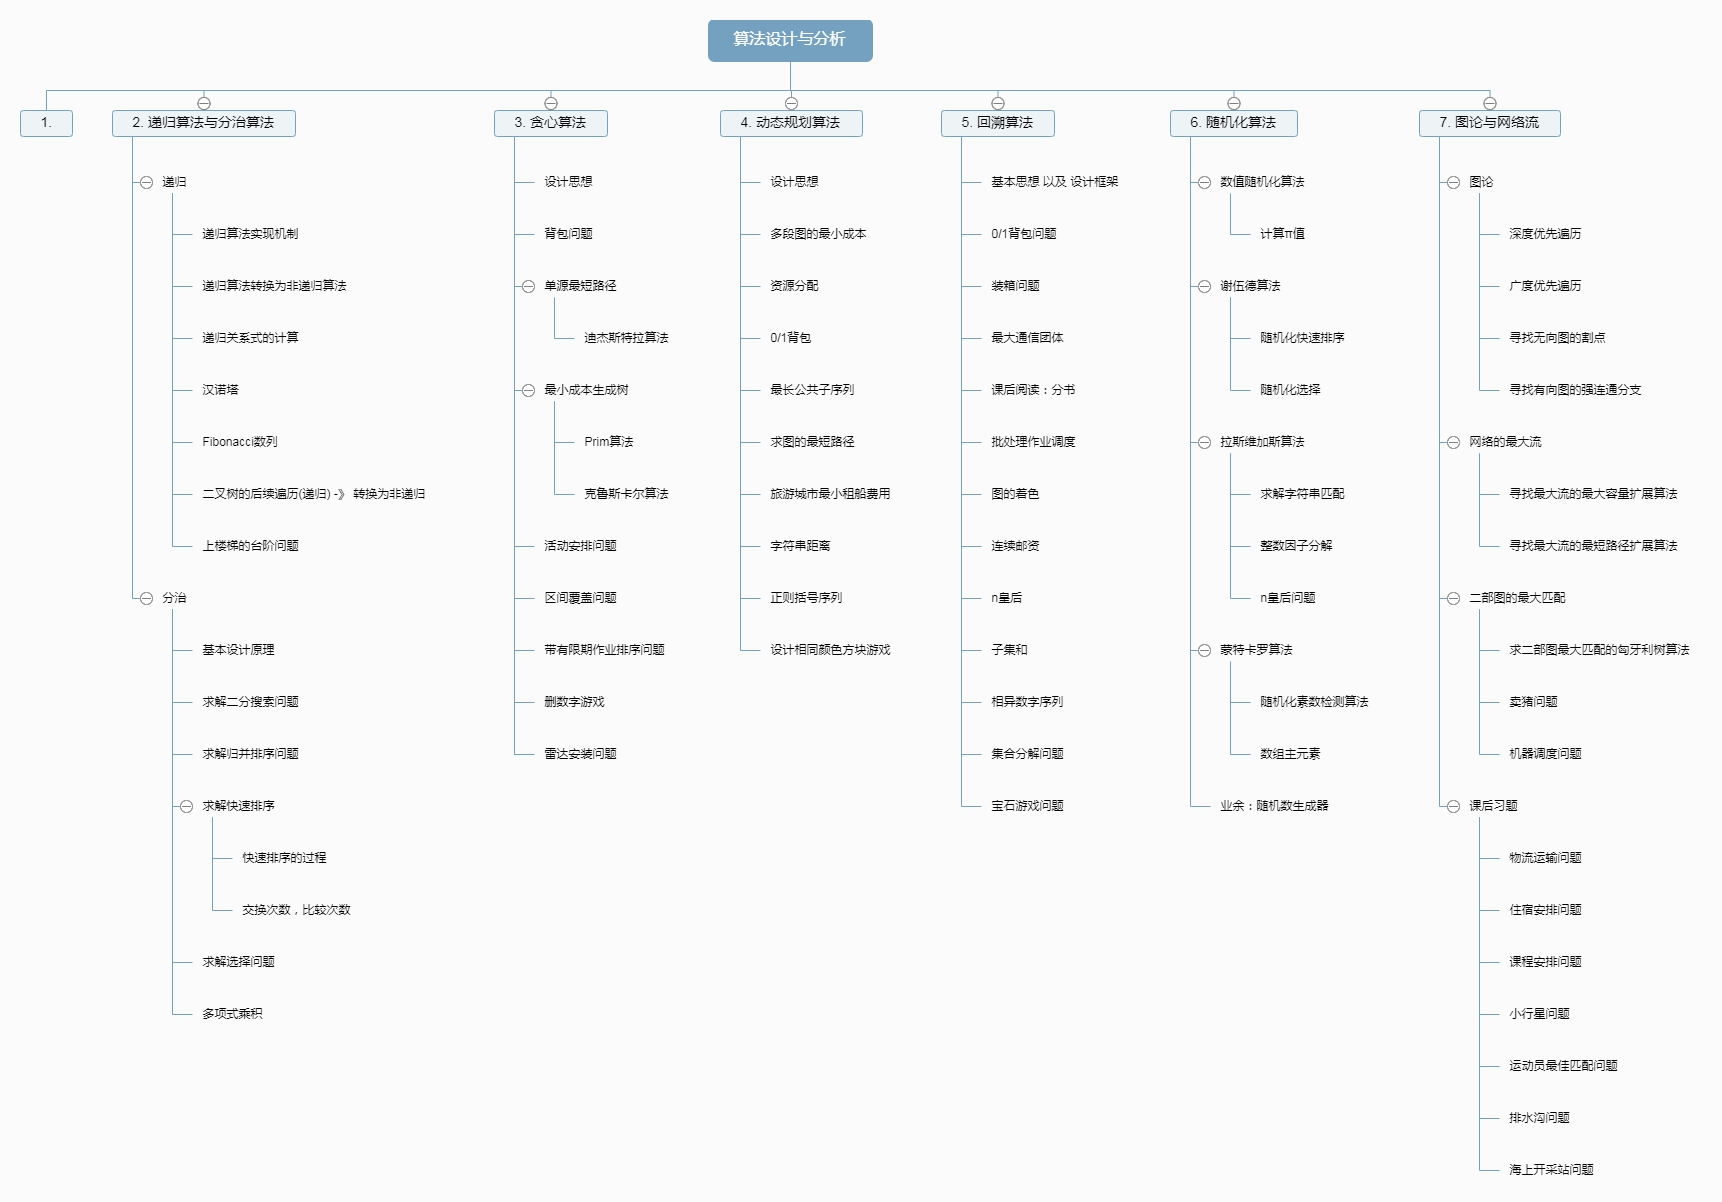
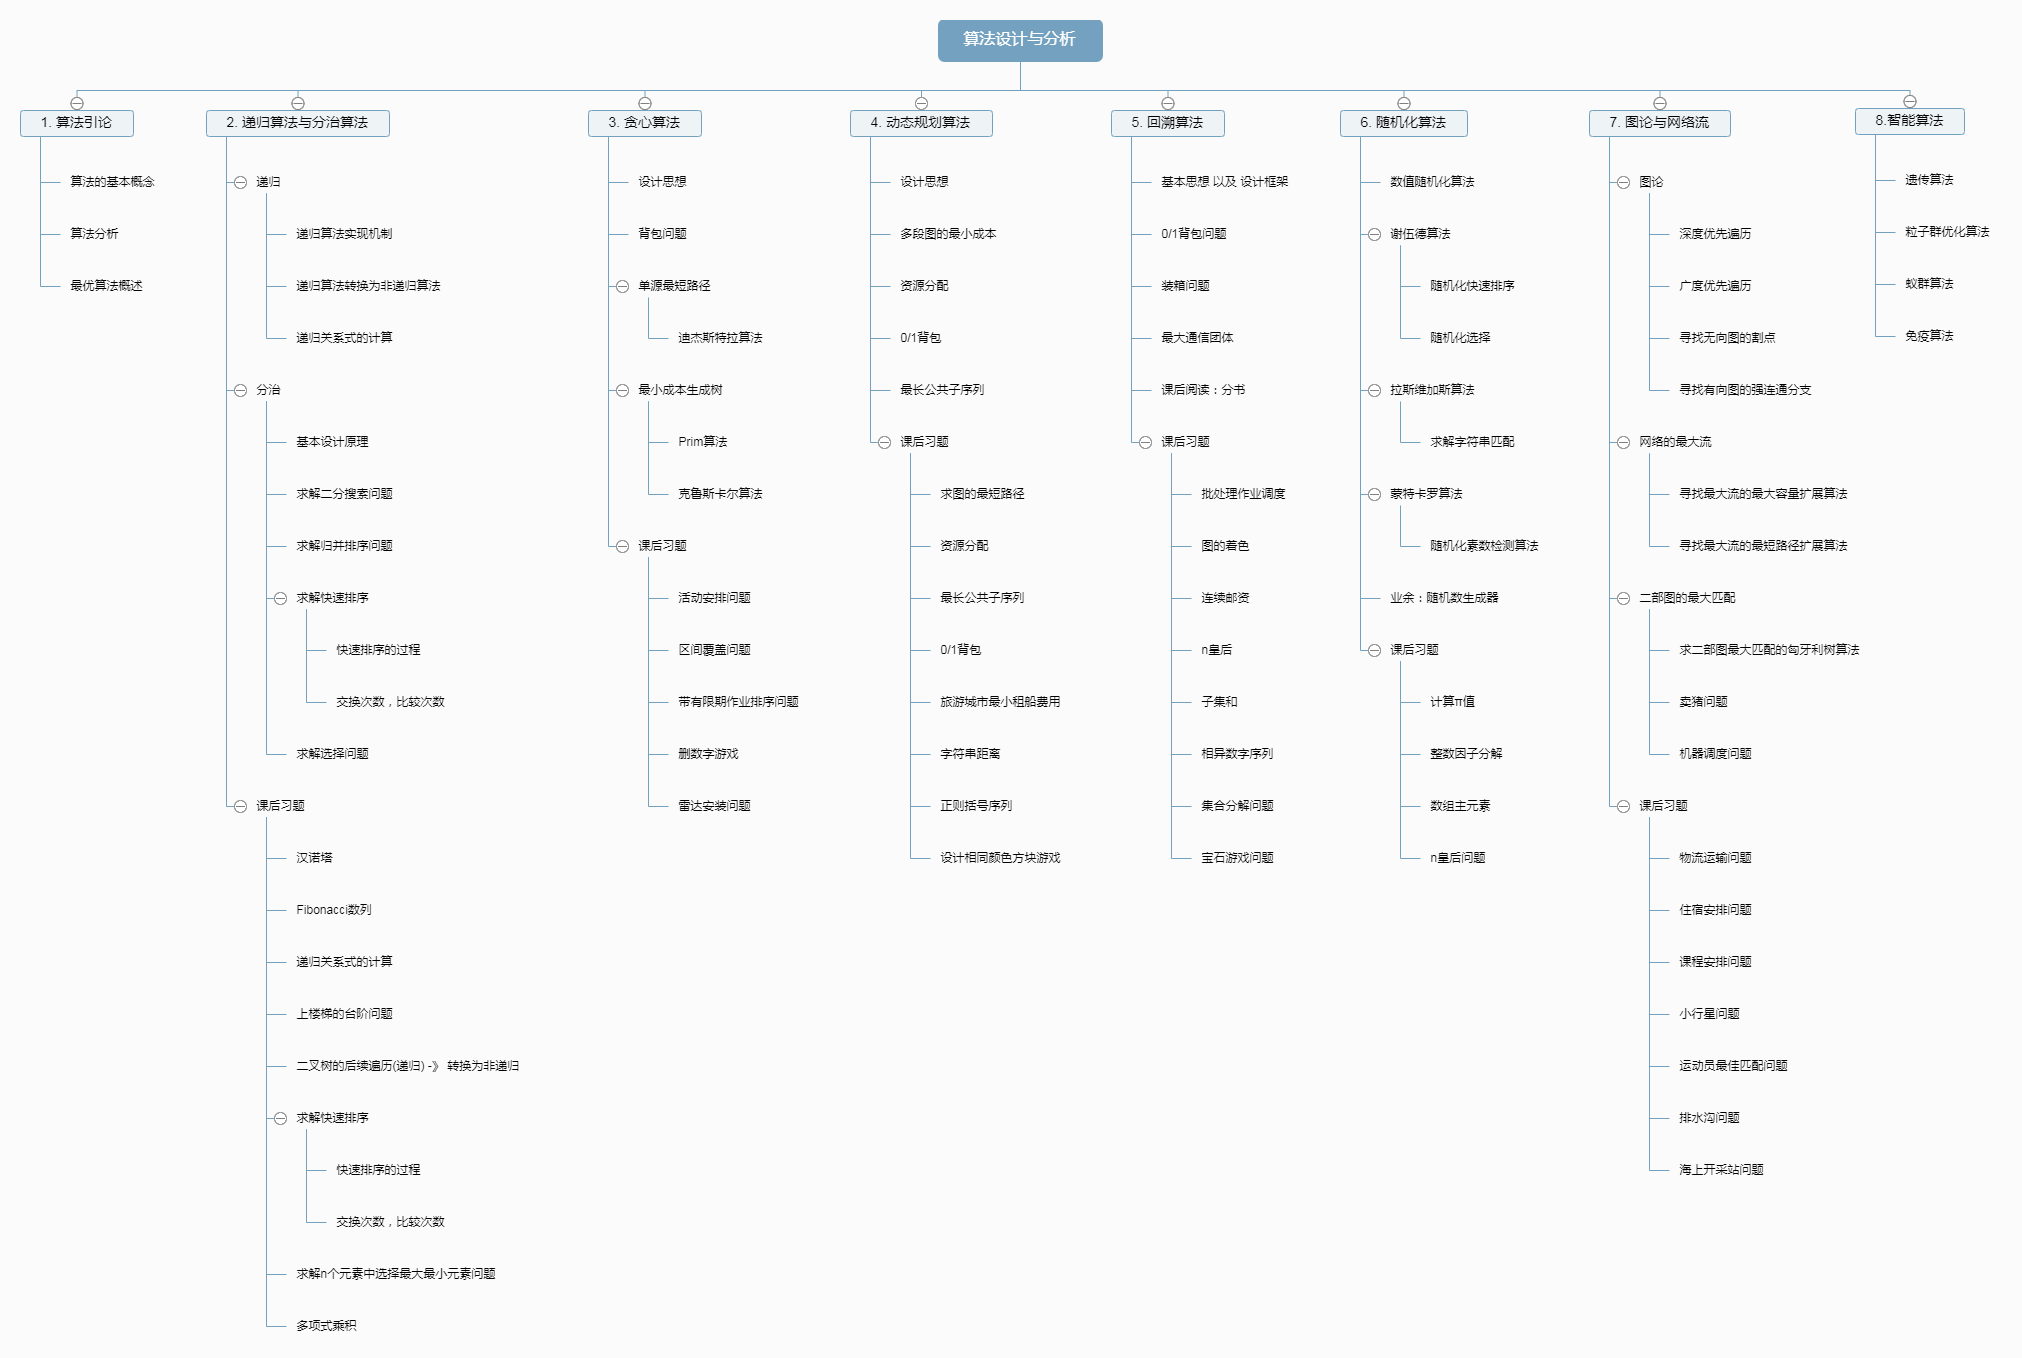
修改上传的目录图片

diff --git a/README.md b/README.md
@@ -135,3 +135,4 @@
 
 
 
+![算法分析](./算法设计与分析.svg)
